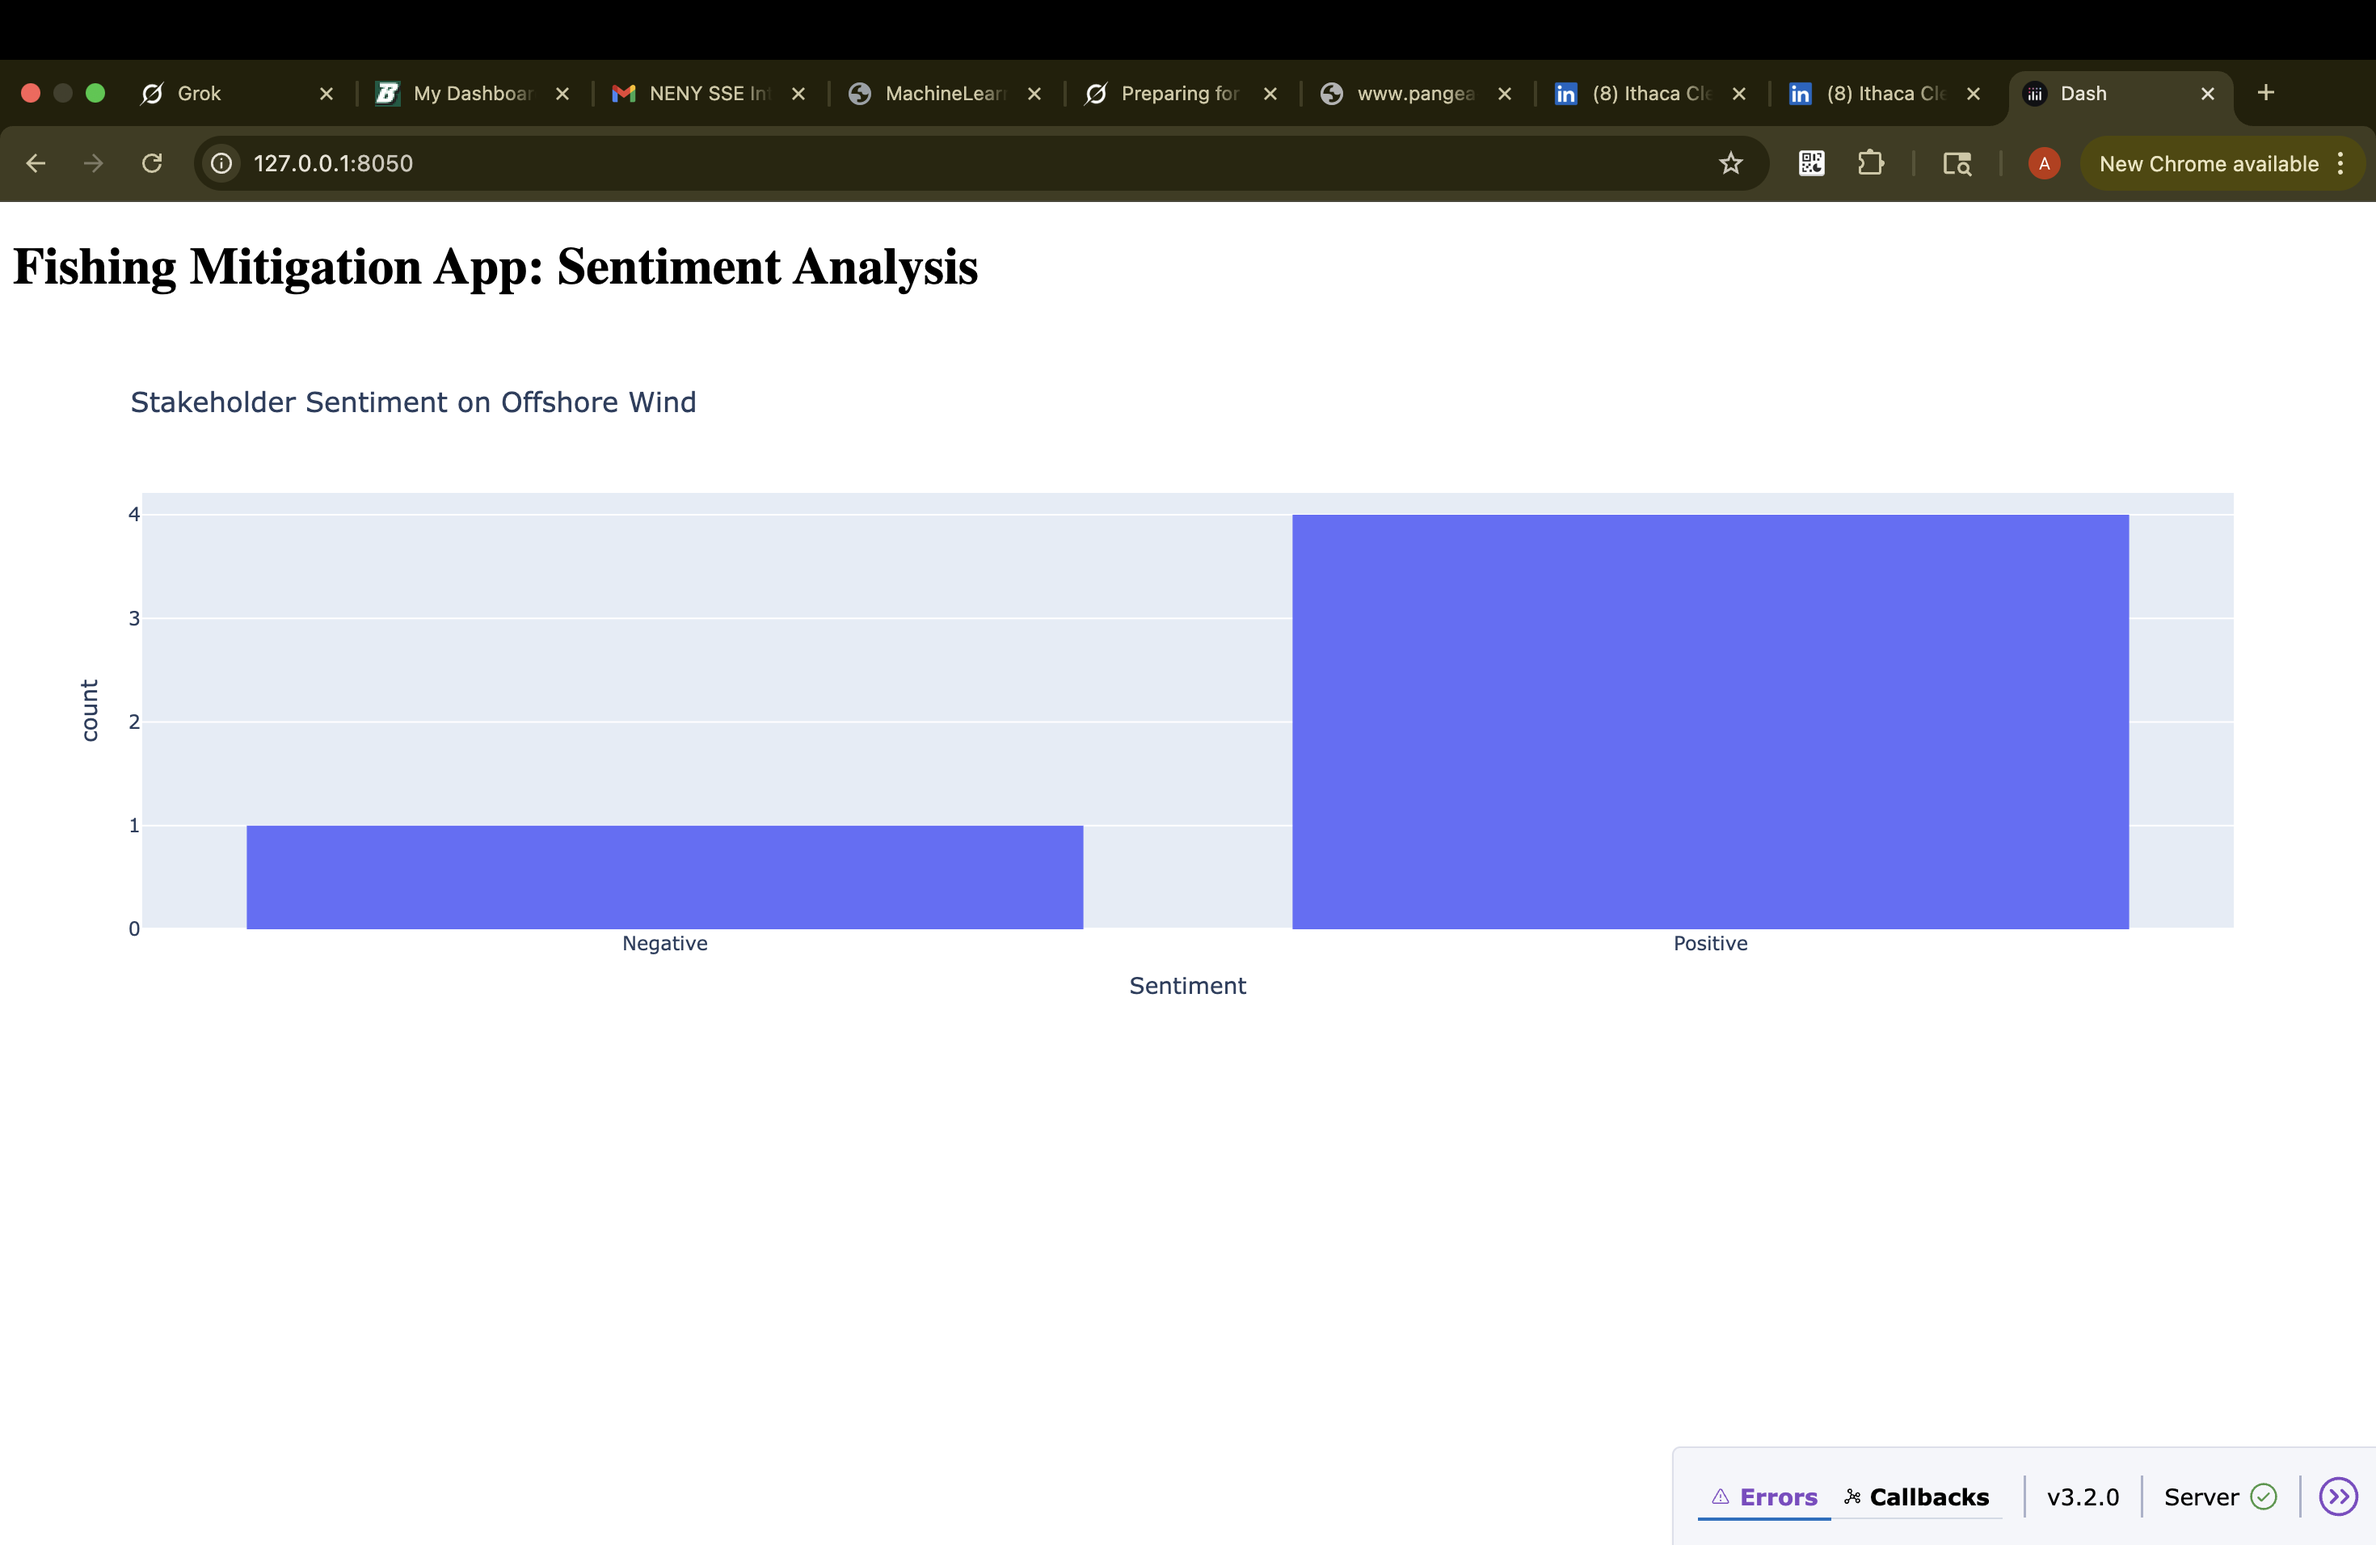
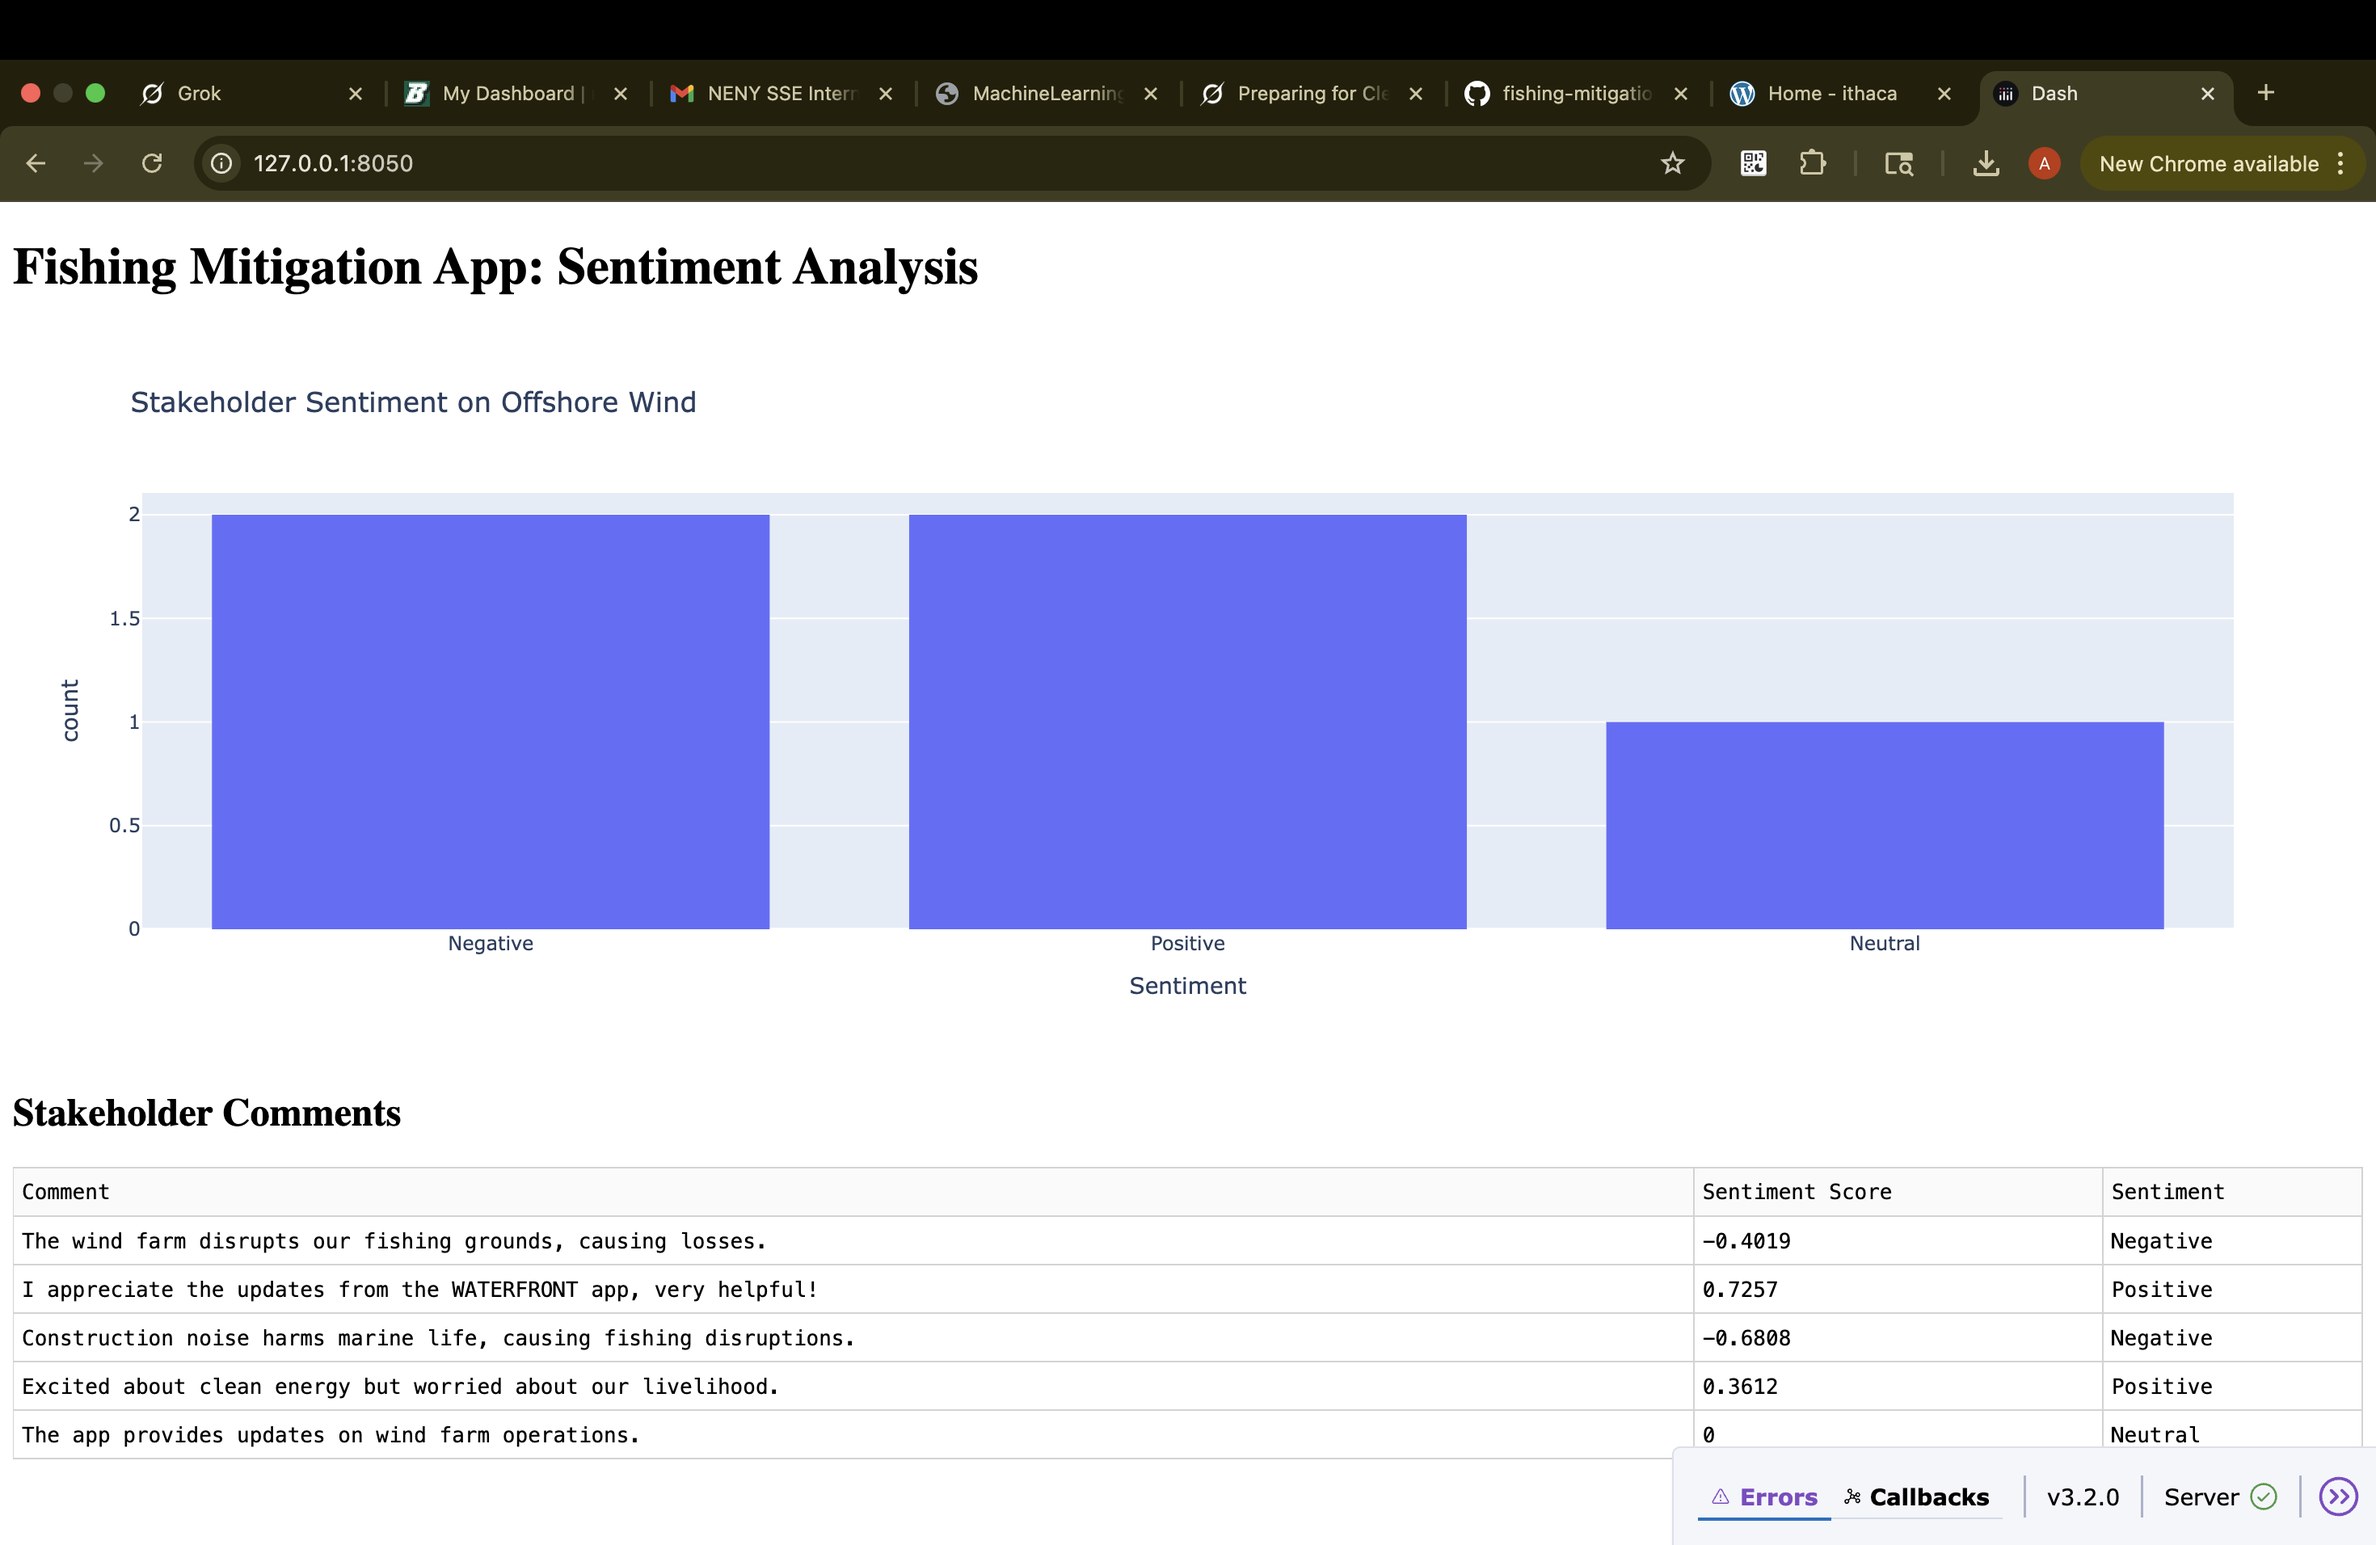
Add interactive stakeholder comment table to dashboard

diff --git a/app.py b/app.py
@@ -1,8 +1,9 @@
 import dash
-from dash import dcc, html
+from dash import dcc, html, dash_table
 import plotly.express as px
 import pandas as pd
 from nltk.sentiment.vader import SentimentIntensityAnalyzer
+import os
 
 # Simulated stakeholder comments
 comments = [
@@ -12,7 +13,6 @@ comments = [
     "Excited about clean energy but worried about our livelihood.",
     "The app provides updates on wind farm operations."
 ]
-
 df = pd.DataFrame(comments, columns=['Comment'])
 
 # Analyze sentiment
@@ -20,11 +20,12 @@ sia = SentimentIntensityAnalyzer()
 df['Sentiment_Score'] = df['Comment'].apply(lambda x: sia.polarity_scores(x)['compound'])
 df['Sentiment'] = df['Sentiment_Score'].apply(lambda x: 'Positive' if x > 0 else 'Negative' if x < 0 else 'Neutral')
 
-# Debug output
-print("DataFrame:")
-print(df)
-print("\nSentiment Counts:")
-print(df['Sentiment'].value_counts())
+# Debug output (only in main process)
+if __name__ == '__main__' and (os.environ.get('WERKZEUG_RUN_MAIN') == 'true'):
+    print("DataFrame:")
+    print(df)
+    print("\nSentiment Counts:")
+    print(df['Sentiment'].value_counts())
 
 # Save results
 df.to_csv('sentiment_results.csv', index=False)
@@ -36,8 +37,21 @@ fig = px.histogram(df, x='Sentiment', title='Stakeholder Sentiment on Offshore W
 app = dash.Dash(__name__)
 app.layout = html.Div([
     html.H1('Fishing Mitigation App: Sentiment Analysis'),
-    dcc.Graph(figure=fig)
+    dcc.Graph(figure=fig),
+    html.H2('Stakeholder Comments'),
+    dash_table.DataTable(
+        id='comment-table',
+        columns=[
+            {'name': 'Comment', 'id': 'Comment'},
+            {'name': 'Sentiment Score', 'id': 'Sentiment_Score'},
+            {'name': 'Sentiment', 'id': 'Sentiment'}
+        ],
+        data=df.to_dict('records'),
+        style_table={'overflowX': 'auto'},
+        style_cell={'textAlign': 'left', 'padding': '5px'},
+        page_size=5
+    )
 ])
 
 if __name__ == '__main__':
-    app.run(debug=True, port=8050, use_reloader=False)
+    app.run(debug=True, port=8050)
